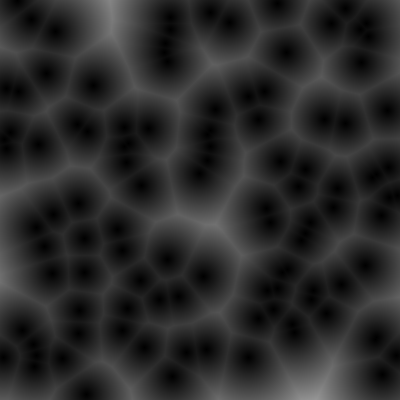
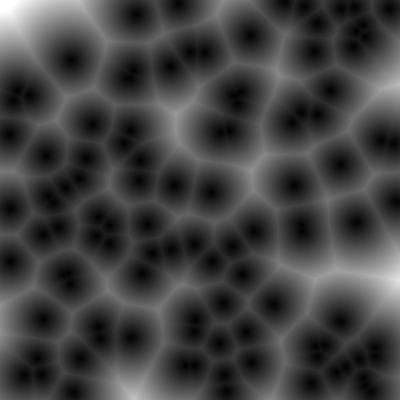
minor changes, improved voronoi algorithm

diff --git a/NoiseLib.py b/NoiseLib.py
@@ -18,8 +18,7 @@ class Noise:
             self.table = self.voronoi(size,args)
         return None
 
-    def voronoi(self,size,args): # this version of the algorithm doesn't use
-        print("processing voronoi noise...") # tell the user something is actually happening 
+    def voronoi(self,size,args): # this version of the algorithm doesn't use 
         a,b = args[0],args[1] # args 0 and 1 are the limits for samplecount randomization
         sample_count = randrange(a,b)
         sizex, sizey= size[0], size[1]
@@ -27,7 +26,7 @@ class Noise:
         BufferTable = [[(0,0,0,1) for i in range(sizey)] for j in range(sizex)] # create an empty pic data
         CellList = [[randrange(0,sizex),randrange(0,sizey)] for i in range(sample_count)] 
         for y in range(len(BufferTable)):
-            print(str(y/len(BufferTable)*100)[:4]+"%",end='\r')
+            print("processing voronoi noise...  "+str(y/len(BufferTable)*100)[:4]+"% ",end='\r') # tell the user something is actually happening
             for x in range(len(BufferTable[y])): # we could just use BufferTable[0], same result
                 d = -1 # negative for "undefined"
                 for u in CellList:
@@ -45,15 +44,17 @@ class Noise:
 
         img = Image.new('RGBA', (sizex, sizey))
         img.putdata(output)
-        img.save('voronoi.png')
-        print("\n")
+        name = 'voronoi.png'
+        img.save(name)
+        print("\n",end='\r')
         print("done")
+        print("saved as "+ name)
 
-        return None
+        return output
     
     def lenght(self,posA,posB):
         dx, dy = posB[0] - posA[0], posB[1] - posA[1]
         return sqrt(dx**2 + dy**2)
 
 noise = Noise()
-noise.create("voronoi",(400,400),(109,110,0.3))
+noise.create("voronoi",(400,400),(109,110,0.2)) # testing the voronoi noise specifically

diff --git a/main.py b/main.py
@@ -14,9 +14,10 @@ class mainApp(ShowBase):
         self.ParticleSystem = ParticleMesh(20,50,70,70,None)
         self.set_background_color(VBase3F(0,0,0))
         self.task_mgr.add(self.MainLoop,'ScreenUpdatingTask')
+        self.dt = 0.001 # time step for the simulation (in seconds)
         return None
     def MainLoop(self,task):
-        self.ParticleSystem.update()
+        self.ParticleSystem.update(self.dt)
         return None
 
 Simulation = mainApp()

diff --git a/proceduralTest.py b/proceduralTest.py
@@ -26,7 +26,7 @@ class testApp(ShowBase):
     def __init__(self):
         ShowBase.__init__(self)
         #self.doubleFaceTriangle()
-        im = Image.open('voronoi_output01.png', 'r')
+        im = Image.open('etna_topography_heighmap.png', 'r')
         self.imageMode = im.mode
         #im = Image.open('estuaire gironde nord Height Map (ASTER 30m).png','r')
         zArray = im.getdata()
